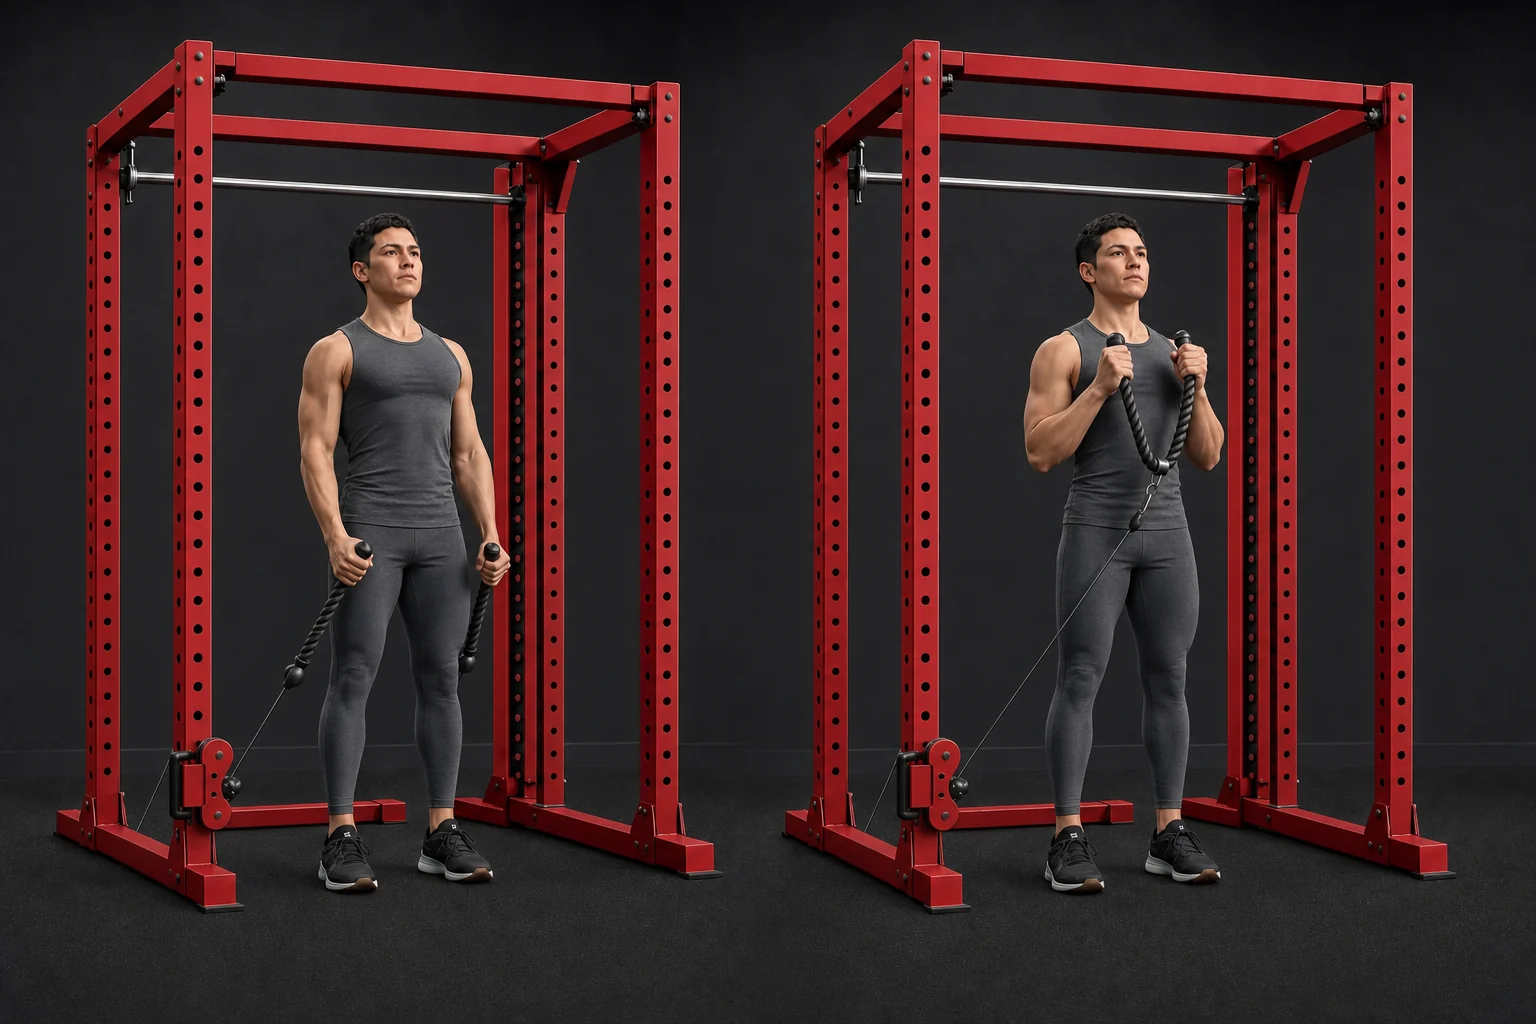
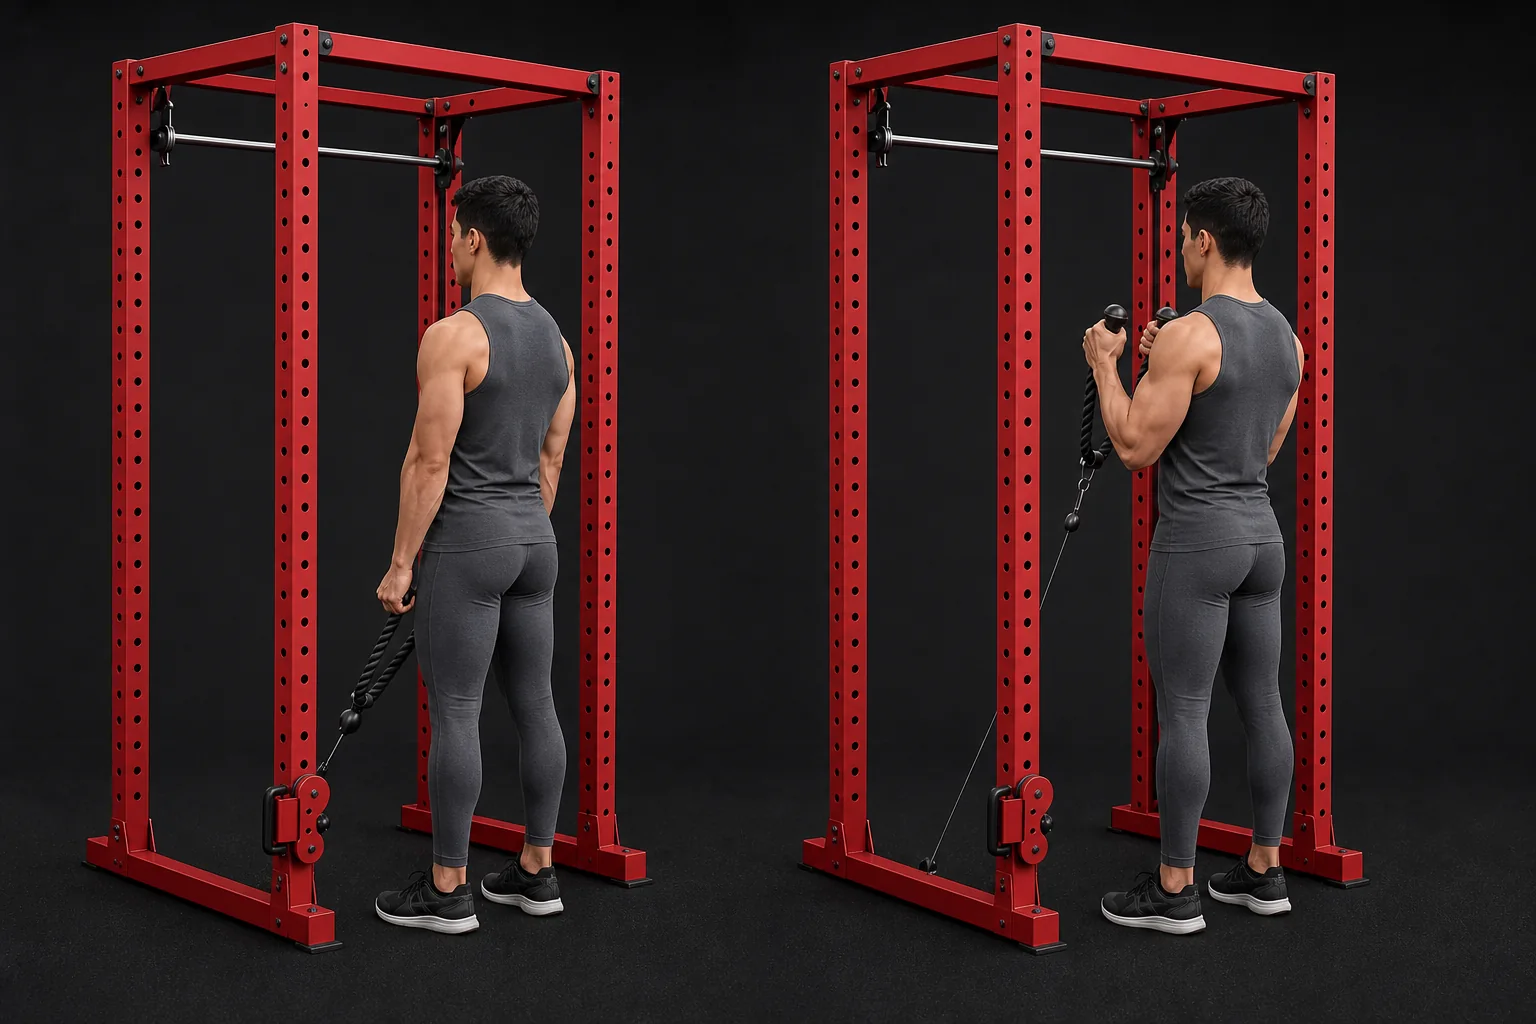
fix: correct cable hammer curl orientation

diff --git a/scripts/test-exercise-imagery.js b/scripts/test-exercise-imagery.js
@@ -48,9 +48,10 @@ assert(cableHammerCurl, "Cable Hammer Curl must have an exercise-library visual"
 assert.strictEqual(cableHammerCurl.sourceType, "app-original");
 assert(
   cableHammerCurl.mediaAlt.includes("neutral-grip rope hammer curl") &&
-    cableHammerCurl.mediaAlt.includes("inner front-left post") &&
+    cableHammerCurl.mediaAlt.includes("facing the same single front post") &&
+    cableHammerCurl.mediaAlt.includes("low pulley") &&
     cableHammerCurl.mediaAlt.includes("red cage-style Smith machine"),
-  "the cable hammer curl needs grip- and equipment-specific alternative text",
+  "the cable hammer curl needs grip-, orientation-, and equipment-specific alternative text",
 );
 assert(
   fs.existsSync(path.join(root, cableHammerCurl.media)),

diff --git a/exercise-library.js b/exercise-library.js
@@ -56,7 +56,7 @@
     "Cable Hammer Curl": road12Illustration({
       sourceExercise: "Rope cable hammer curl on a red cage-style Smith machine",
       media: "cable-hammer-curl-red-cage.webp",
-      mediaAlt: "Start and finish positions for a neutral-grip rope hammer curl using one low pulley on the inner front-left post of a red cage-style Smith machine",
+      mediaAlt: "Start and finish positions for a neutral-grip rope hammer curl, with the athlete facing the same single front post and its low pulley on a red cage-style Smith machine",
       primaryMuscles: ["Biceps", "Brachialis"],
       secondaryMuscles: ["Forearms"],
       equipment: ["Red cage-style Smith machine", "One low inner front-left pulley", "Triceps rope"],

diff --git a/scripts/test-offline-pwa.js b/scripts/test-offline-pwa.js
@@ -121,7 +121,7 @@ async function dispatchFetch(url) {
 
 (async () => {
   const cacheName = context.self.ROAD12_META.serviceWorkerCache;
-  assert.strictEqual(cacheName, "road12-v13-2-14-shell");
+  assert.strictEqual(cacheName, "road12-v13-2-15-shell");
 
   await dispatchExtendable("install");
   assert.strictEqual(skipWaitingCalled, true, "new worker must activate promptly");

diff --git a/app-meta.js b/app-meta.js
@@ -1,9 +1,9 @@
 (function (root) {
   root.ROAD12_META = Object.freeze({
     version: "13.2.0",
-    build: "2026.07.30.15",
+    build: "2026.07.30.16",
     lastUpdated: "July 30, 2026",
     gitCommit: null,
-    serviceWorkerCache: "road12-v13-2-14-shell"
+    serviceWorkerCache: "road12-v13-2-15-shell"
   });
 })(typeof self !== "undefined" ? self : window);

diff --git a/sw.js b/sw.js
@@ -1,5 +1,5 @@
 /* Keep this query aligned with app-meta.js so Safari cannot reuse stale imported metadata. */
-importScripts("./app-meta.js?build=2026.07.30.15");
+importScripts("./app-meta.js?build=2026.07.30.16");
 
 const CACHE=self.ROAD12_META.serviceWorkerCache;
 const CACHE_PREFIX="road12-";

diff --git a/docs/CHANGELOG.md b/docs/CHANGELOG.md
@@ -44,6 +44,7 @@ The format follows [Keep a Changelog](https://keepachangelog.com/en/1.1.0/), and
 - Advanced the maintenance build to `2026.07.30.13` and rotated the offline shell cache for the corrected Incline Cable Press equipment artwork.
 - Advanced the maintenance build to `2026.07.30.14` and rotated the offline shell cache after moving the left Incline Cable Press pulley to the inner front-left upright.
 - Advanced the maintenance build to `2026.07.30.15` and rotated the offline shell cache for the Cable Hammer Curl visual guide.
+- Advanced the maintenance build to `2026.07.30.16` and rotated the offline shell cache for the corrected Cable Hammer Curl orientation.
 - Replaced developer-facing missing-media copy with concise coached-instruction guidance.
 
 ### Fixed
@@ -53,6 +54,7 @@ The format follows [Keep a Changelog](https://keepachangelog.com/en/1.1.0/), and
 - Fixed UTC date conversion causing yesterday's missed workout to be absent from Calendar.
 - Corrected the Incline Cable Press illustration so both low pulleys are on the front posts and the Smith cage matches the red equipment.
 - Corrected the left Incline Cable Press carriage placement from the outer rear-left upright to the inner front-left upright beside the bench.
+- Corrected the Cable Hammer Curl illustration so both positions face the same single front pulley post.
 
 ### Removed
 

diff --git a/docs/CODEX_TASKS.md b/docs/CODEX_TASKS.md
@@ -58,6 +58,7 @@ Copy this block for new work:
 
 ## Completed this sprint
 
+- [x] Correct the Cable Hammer Curl start and finish positions to face one front pulley post.
 - [x] Add an offline Cable Hammer Curl illustration on the red Smith cage.
 - [x] Move the Incline Cable Press left carriage to the inner front-left upright.
 - [x] Correct the Incline Cable Press pulley placement and red Smith cage finish.

diff --git a/docs/PROJECT_CONTEXT.md b/docs/PROJECT_CONTEXT.md
@@ -6,9 +6,9 @@ Read this file at the beginning of every Codex or engineering session. It is the
 
 - Product: Road to 12%
 - Version: 13.2.0
-- Build: 2026.07.30.15
+- Build: 2026.07.30.16
 - Last updated: July 30, 2026
-- Service Worker cache: `road12-v13-2-14-shell`
+- Service Worker cache: `road12-v13-2-15-shell`
 - Runtime: static, client-only, offline-first PWA
 - Primary storage key: `road12v5`
 
